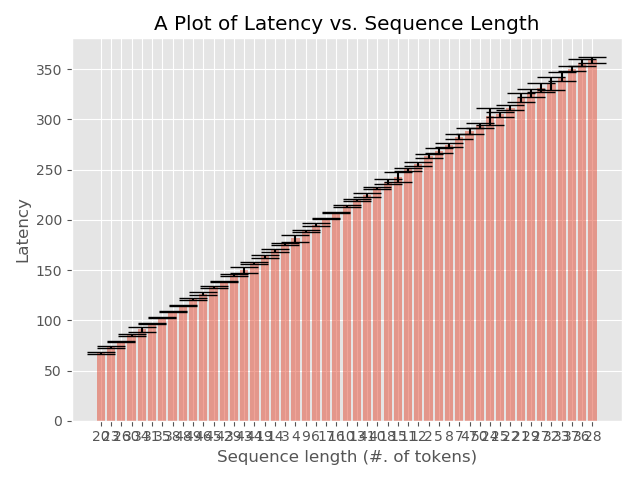
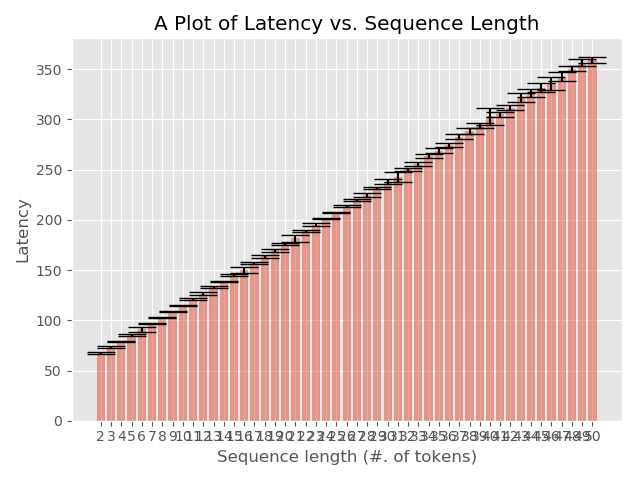
fix errors

Changed region(s): [[0.1562, 0.875, 0.9375, 0.9375]]

diff --git a/examples/bart/plotter.py b/examples/bart/plotter.py
@@ -36,7 +36,7 @@ fig, ax = plt.subplots()
 ax.bar(x_pos, CTEs, yerr=error, align='center', alpha=0.5, ecolor='black', capsize=10)
 ax.set_ylabel('Latency')
 ax.set_xlabel('Sequence length (#. of tokens)')
-ax.set_xticks(indices)
+ax.set_xticks(sorted(indices))
 ax.set_xticklabels(x_pos)
 ax.set_title('A Plot of Latency vs. Sequence Length')
 ax.yaxis.grid(True)
